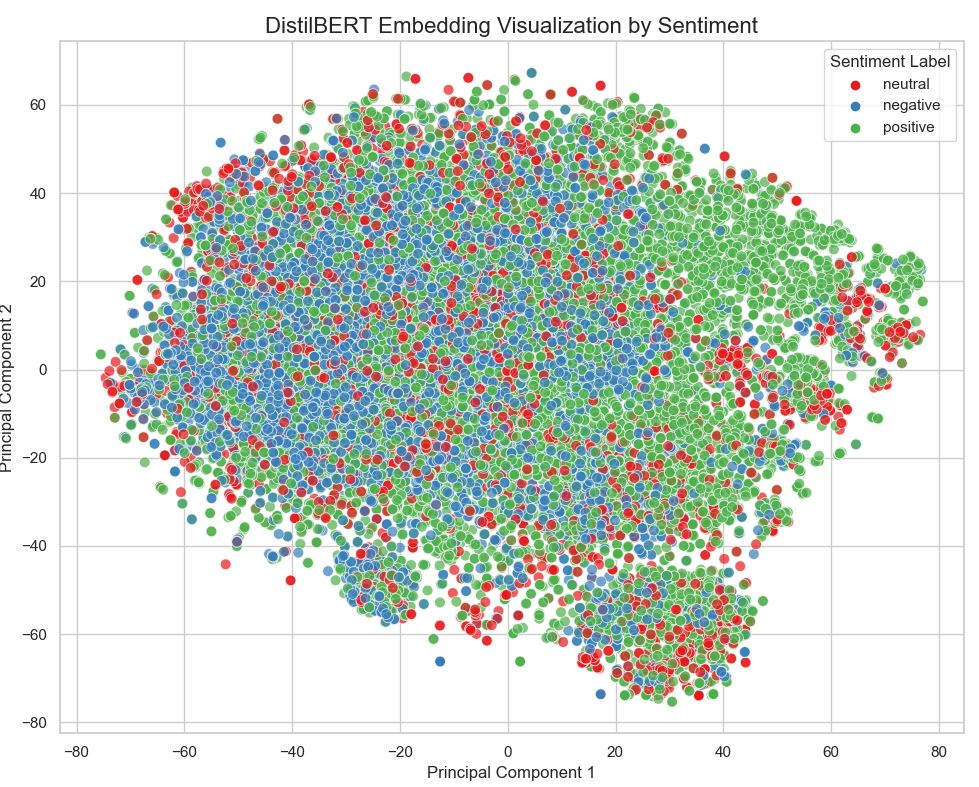
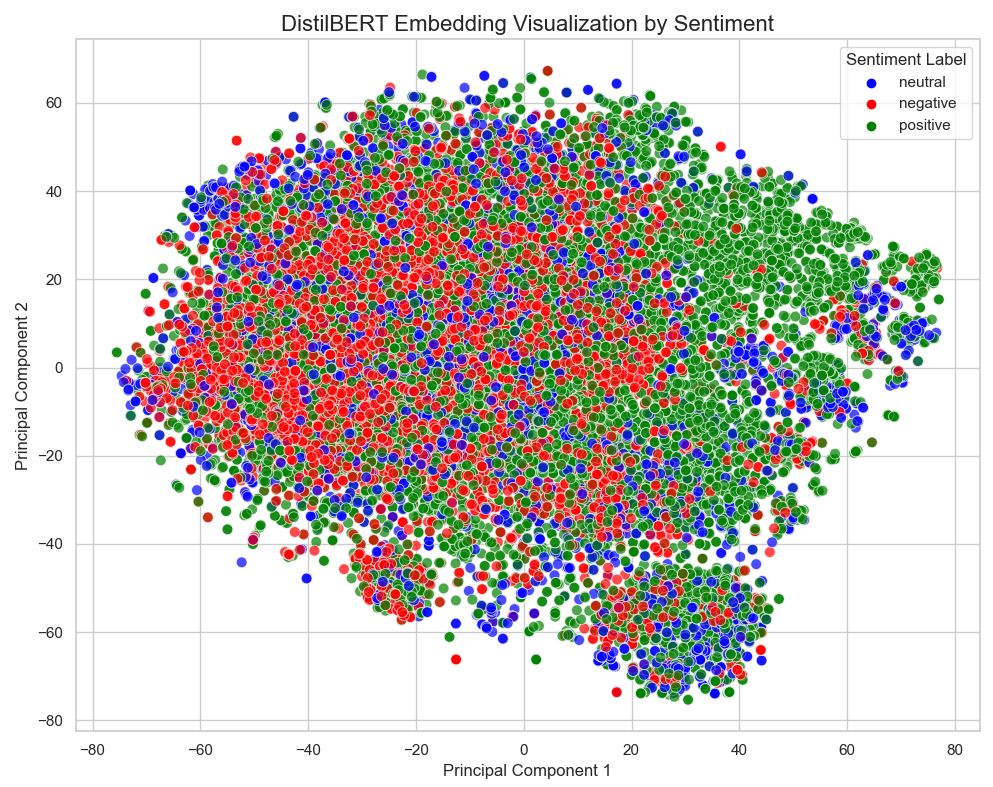
updates

diff --git a/code/Assignment.py b/code/Assignment.py
@@ -25,7 +25,7 @@ from sklearn.metrics import classification_report, accuracy_score, confusion_mat
 
 
 # Load the dataset
-data = pd.read_csv('https://raw.githubusercontent.com/ChesterVoo/SMC/refs/heads/main/dataset/airlineTweets.csv')
+data = pd.read_csv('https://raw.githubusercontent.com/ChesterVoo/SMC/refs/heads/main/assignment/dataset/airlineTweets.csv')
 
 # Initialize the lemmatizer
 lemmatizer = WordNetLemmatizer()
@@ -88,8 +88,12 @@ data['sentiment_category'] = data['compound'].apply(
     lambda x: 'positive' if x > 0.05 else ('negative' if x < -0.05 else 'neutral'))
 
 # 2. Distribution of Sentiment Categories (Positive, Neutral, Negative)
+# Custom color palette
+custom_palette = {'positive': 'green', 'neutral': 'blue', 'negative': 'red'}
+
+# Plot using seaborn countplot with the custom palette
 plt.figure(figsize=(8, 6))
-sns.countplot(x='sentiment_category', data=data, palette='Set1')
+sns.countplot(x='sentiment_category', data=data, palette=custom_palette)
 plt.title("Sentiment Category Distribution")
 plt.xlabel("Sentiment Category")
 plt.ylabel("Count")
@@ -131,9 +135,12 @@ visualization_df['sentiment_label'] = data['sentiment_category']
 # Set plot style
 sns.set(style="whitegrid")
 
-# Plot using seaborn scatterplot
+# Define a custom color palette
+custom_palette = {'negative': 'red', 'neutral': 'blue', 'positive': 'green'}
+
+# Plot using seaborn scatterplot with the custom palette
 plt.figure(figsize=(10, 8))
-sns.scatterplot(data=visualization_df, x='Dim1', y='Dim2', hue='sentiment_label', palette='Set1', s=60, alpha=0.7)
+sns.scatterplot(data=visualization_df, x='Dim1', y='Dim2', hue='sentiment_label', palette=custom_palette, s=60, alpha=0.7)
 
 # Add plot titles and labels
 plt.title('DistilBERT Embedding Visualization by Sentiment', fontsize=16)
